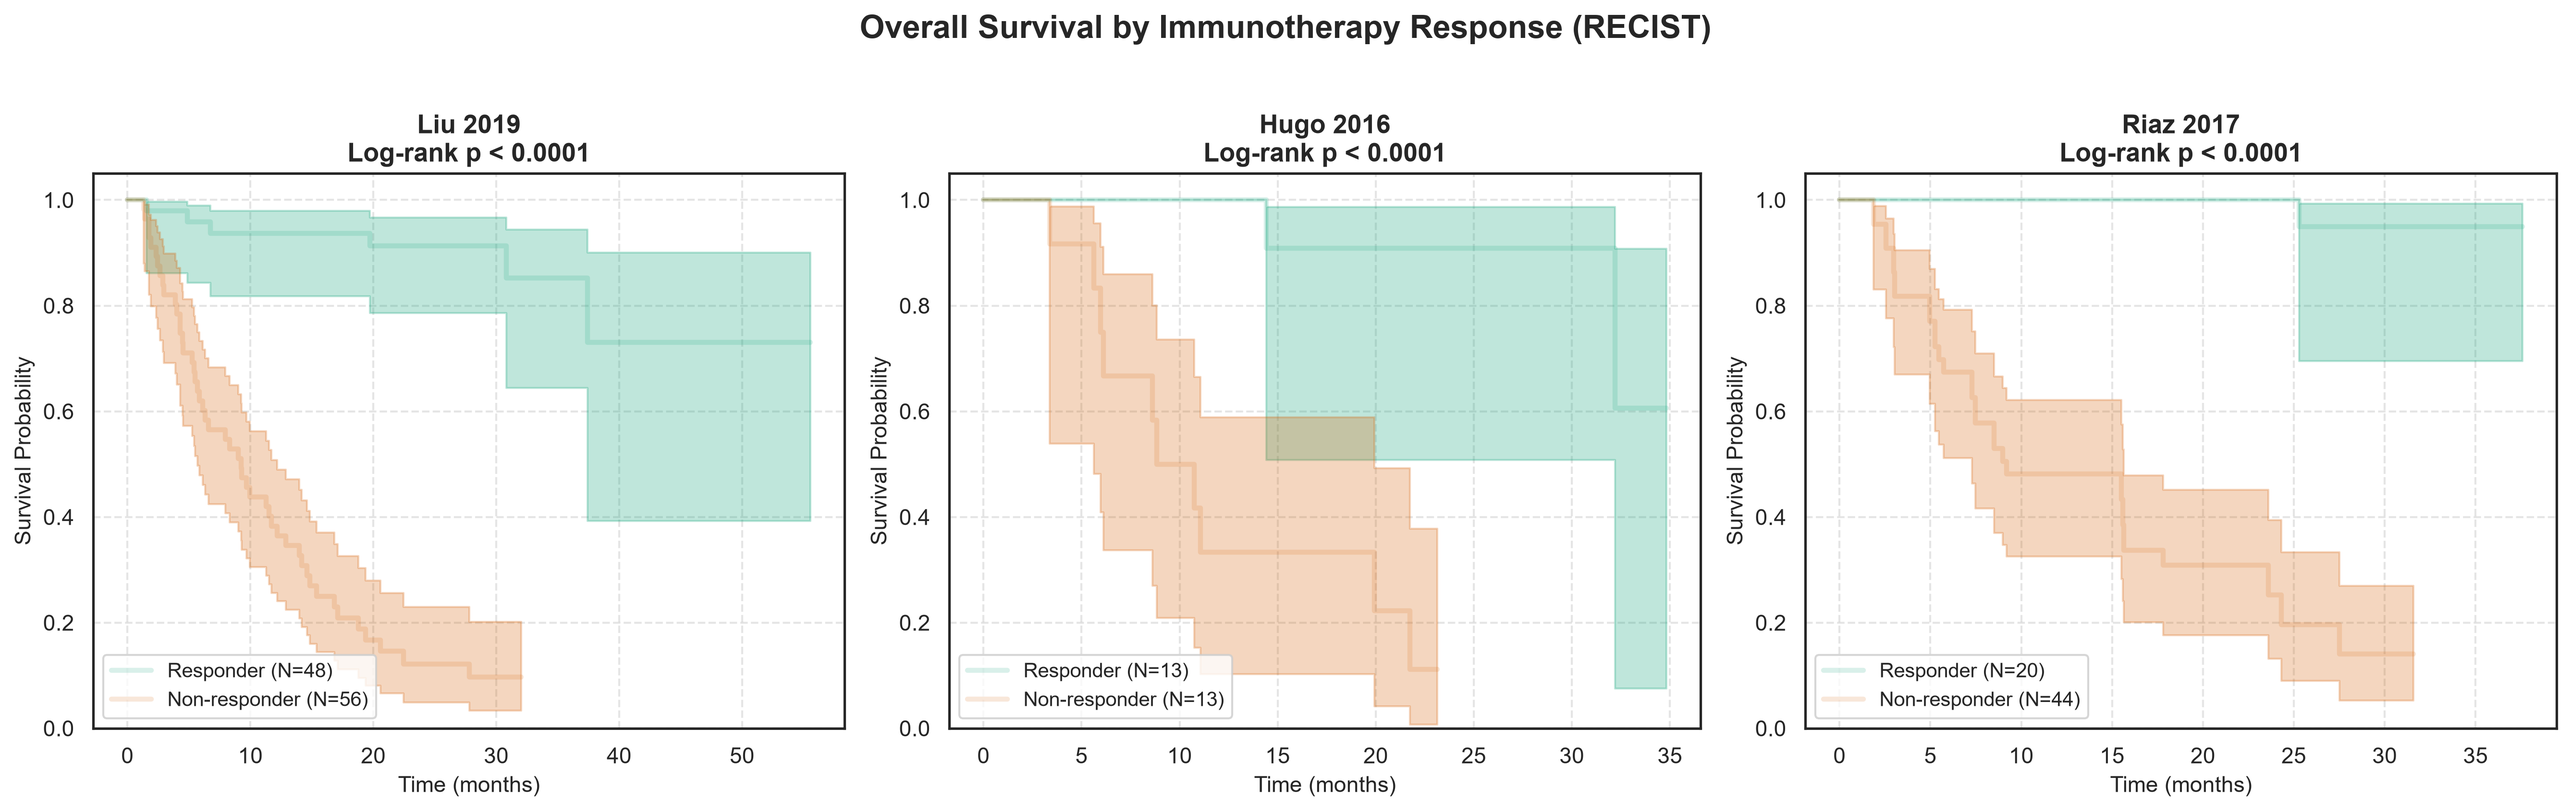
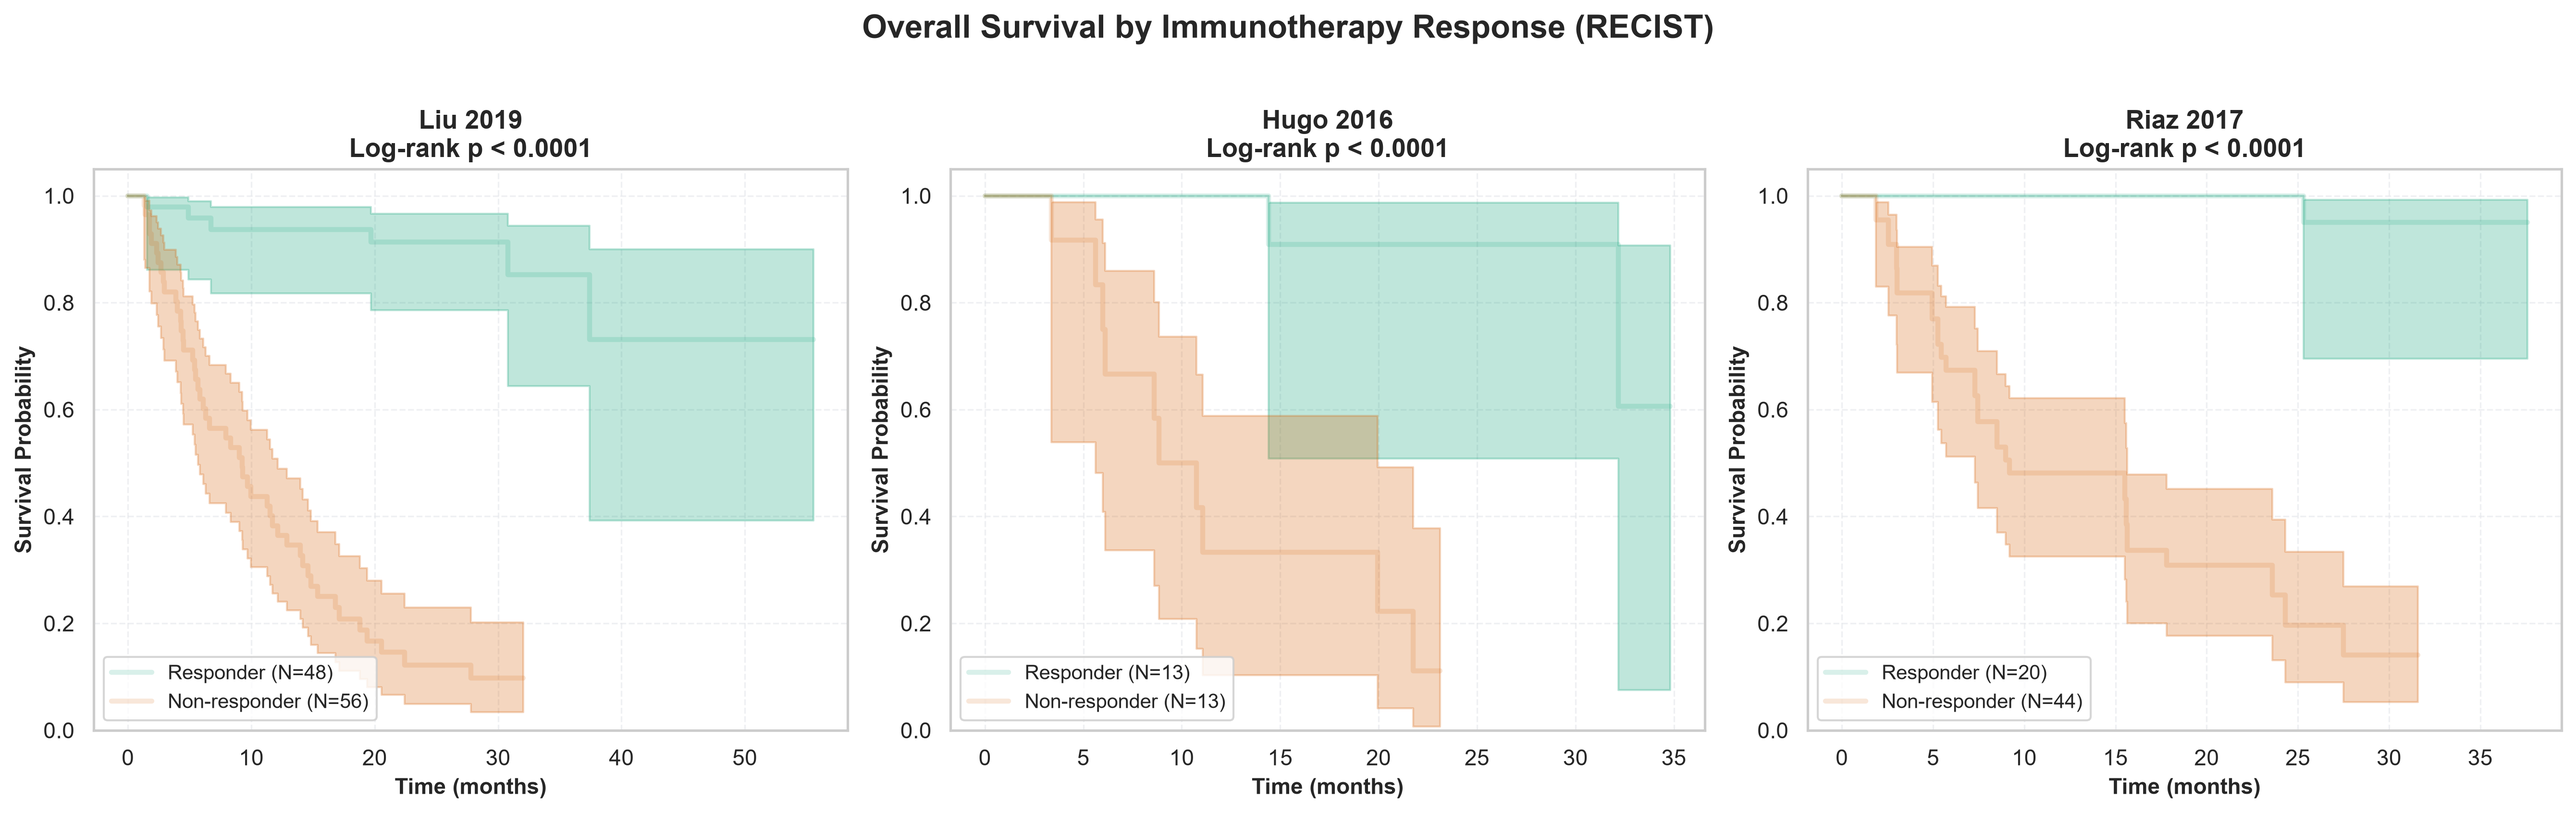
style(plots): mirror updated KM plots across root and q1-response-predictor plots folders

diff --git a/q1-response-predictor/src/evaluation.py b/q1-response-predictor/src/evaluation.py
@@ -1,3 +1,4 @@
+from pathlib import Path
 import numpy as np
 import pandas as pd
 import matplotlib.pyplot as plt
@@ -404,7 +405,17 @@ def plot_survival_2x2_grid(cohort_survival_data, save_path=None):
     plt.suptitle("Overall Survival Stratification Across Cohorts by Model Predictions", fontsize=15, fontweight='bold', y=0.98)
 
     if save_path:
+        save_path = Path(save_path)
         save_fig(fig, save_path)
-    else:
-        plt.show()
+        # Mirror to root or subproject directory if path contains plots/models
+        if "q1-response-predictor" in str(save_path):
+            alt_path = Path(str(save_path).replace("q1-response-predictor/", "").replace("q1-response-predictor\\", ""))
+            if alt_path != save_path:
+                alt_path.parent.mkdir(parents=True, exist_ok=True)
+                save_fig(fig, alt_path)
+        else:
+            alt_path = save_path.parent.parent / "q1-response-predictor" / "plots" / "models" / save_path.name
+            if alt_path != save_path:
+                alt_path.parent.mkdir(parents=True, exist_ok=True)
+                save_fig(fig, alt_path)
 

diff --git a/q1-response-predictor/scripts/exploratory_plots/run_response_km_curves.py b/q1-response-predictor/scripts/exploratory_plots/run_response_km_curves.py
@@ -115,7 +115,13 @@ def main() -> None:
 
     out_path = PLOT_DIR / "km_os_by_response.png"
     save_fig(fig, out_path)
-    print(f"Saved response-stratified KM plots to {rel_path(out_path)}")
+    
+    sub_path = BASE_DIR / "plots" / "clinical" / "km_os_by_response.png"
+    if sub_path != out_path:
+        sub_path.parent.mkdir(parents=True, exist_ok=True)
+        save_fig(fig, sub_path)
+
+    print(f"Saved response-stratified KM plots to {rel_path(out_path)} and {rel_path(sub_path)}")
 
     print("==================================================")
     print("Done!")
